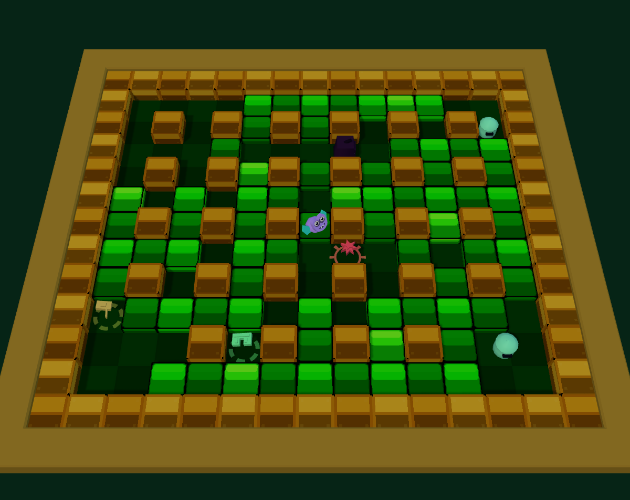
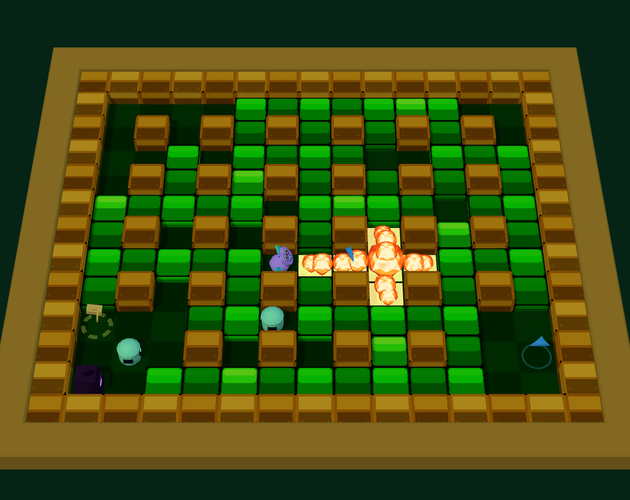
Media: recapture listing art on live v178 (eight-row MENU, live 3D rig)
Cover, still-jungle/ice/crown, still-menu and play.gif recaptured from the
live game: REAL 3D on the STANDARD rig (dist 1503, CAM_FOV 24), Metal
headless shell over CDP, SW unregistered + caches cleared + SW bypass +
hard reload, PORT=0 server stopped by PID. play.gif is a real held-key run
that grabs a naturally buried FLAME (only the fuse staged), 0.58 MB.
media/README provenance rows rewritten per asset, recapture note removed;
PIXEL in the listing and og.png re-cut stay owner-pending.

diff --git a/media/README.md b/media/README.md
@@ -6,67 +6,80 @@
 This page owns the listing art, the itch blurb and the upload zip. Everything
 else about the game lives in the [docs map](../docs/README.md).
 
-> ⚠ **Due for a recapture.** These captures date from 2026-09-06.
-> `still-menu.png` shows the old six-row MENU (DAILY and STATS arrived in
-> shell v143), the REAL 3D shots use the camera from before shell v163, and no
-> asset shows PIXEL (shell v178) yet. They're still real captures of the game
-> as it was then.
-> Adding PIXEL to the listing is a storefront change, so it gets its own pass
-> rather than a drive-by.
+> **PIXEL isn't in the listing set yet.** Every asset here shows REAL 3D or
+> CLASSIC 2D. Adding PIXEL (shell v178) to the cover, the stills, `og.png`,
+> the blurb or the tags is a storefront change, so it waits for the owner.
 
 Everything in this folder is a **real capture** from the live game (loopback
-`node serve.js`, service worker unregistered and caches cleared first, then a
-hard reload) — nothing here is generated key art. Not part of the shipped
-app: `media/` is never staged for GitHub Pages and never added to the PWA
-precache (`src/pwa/shell.js` / `sw.js`).
+`PORT=0 node serve.js`, service worker unregistered and caches cleared first,
+then a hard reload) — nothing here is generated key art. Not part of the
+shipped app: `media/` is never staged for GitHub Pages and never added to the
+PWA precache (`src/pwa/shell.js` / `sw.js`).
 
 "Real capture" means every pixel is the shipped renderer drawing the shipped
-meshes/sprites — it does not mean untouched natural play. RAF is paused while
-the capture tab is backgrounded, so every shot here is driven by hand through
-`window.__GAME__` (the `?debug=1` hook): forcing a render after `step(n)`,
-and, where noted below, staging world state directly (moving the player,
-planting a bomb with a shortened fuse, carving a brick corridor, relocating
-enemies) so the moment on screen is reachable in one script instead of
-minutes of RNG-dependent natural play. Each row below says which of those it
-used.
+meshes/sprites — it does not mean untouched natural play. Each row below says
+which moments were staged through `window.__GAME__` (the `?debug=1` hook) or
+by writing world state directly, so a shot is reachable in one script instead
+of minutes of RNG-dependent play.
 
-Last recaptured **2026-09-06**, after MAKO (the reef-critter mascot, spec
-§2.7) replaced every prior humanoid hero — SIGNAL RUNNER and IONVEST are both
-superseded, and 2D and 3D once again share one character (`PLAYER_HULL` ===
-`PLAYER_SUIT` === `#c39cff`). The 2026-09-05 pass is still the last time
-menu/GUIDE chrome changed (P1–P4 pickups, S1–S3 OPTIONS/pause/chrome-removal,
-R2 folding HOW TO PLAY / ITEMS / ENEMIES under GUIDE); this pass only
-recaptures pixels to swap the hero, and did not touch layout. Every still
-below (plus root `og.png`) shows MAKO, not the earlier gunmetal-hulled hero.
+Last recaptured **2026-10-19** on shell v178 (precache `fusegrid-shell-v178`),
+so the set shows the eight-row MENU and the live REAL 3D rig: the STANDARD
+preset (`dist` 1503) through the `CAM_FOV` 24 lens, both read from
+`camrig.js` in the page at capture time, never orbited or dollied, with the
+near-wall cutaway. MAKO is the hero in every shot.
+
+**How every capture ran.** Each asset got its own session (the three 3D
+stills share one): its own
+`PORT=0 node serve.js` and its own Playwright `chrome-headless-shell` on
+ANGLE Metal (real GPU, not SwiftShader) with a fresh `--user-data-dir`,
+driven over CDP with the `tools/pixel/shot.mjs` helpers. Both were stopped
+by PID afterwards. The page loaded once. Then every
+service worker was unregistered (one was registered each time), every cache
+deleted (`fusegrid-shell-v178`), localStorage cleared,
+`Network.setBypassServiceWorker` turned on so the re-registered `sw.js`
+served nothing, and the page hard-reloaded with `ignoreCache`. The viewport
+is 640×568 at DPR 2, so the stage fits at scale 1: 600×520 CSS, `#gl`
+backing 1200×1040 with `dpr3d` 2. The stills session read `dpr3d` 2 with
+the governor at 2, and a verification run on the same harness (capture
+stylesheet on, rooms 1 and 8) measured `#gl` at 1200×1040 behind a 600×520
+stage, so no 3D shot is upscaled. A MessageChannel rAF shim keeps the
+real game loop running in real time while headless. A capture-only
+stylesheet strips the canvas border, radius and drop shadow (page chrome,
+not game pixels) so shots run edge to edge. 3D shots come from
+`Page.captureScreenshot` clipped to the stage, which composites `#gl` under
+the `#c` HUD overlay exactly as the page shows them. (An in-page
+`drawImage(#gl)` readback is unsafe since v178: render-on-change can skip
+the raster on a still board.) For the 3D sessions `nb.coach.v1` was seeded
+as seen, so the first-room ghost-coach panel doesn't cover the board. No
+coach v2 tip fired in any shot. Every session logged 0 console errors and 0
+exceptions.
 
 ## 🖼 Assets
 
 | File | Use | Provenance |
 |---|---|---|
-| `cover-630x500.png` | itch.io game cover (630×500) | Dedicated live capture (not a crop of `og.png`, whose 1200-wide hero has no 630×500 crop that clears its own text without cutting it): real 3D (`?render=3d&debug=1`), JUNGLE room 1. Staged, not natural play: the player was retreated to a diagonal tile clear of the blast arms and a bomb object pushed directly onto `w.bombs` with an already-expired timer so the detonation is reachable in a single `step()` call instead of the real 2.5s fuse; `p.iFrames` forced to 0 each render so spawn/hit invulnerability never blinks the hero out. Caught the instant the blast opens a BRICK. `#gl` + `#c` composited onto an offscreen canvas at native 2×-DPR resolution (1200×1040), then downscaled-only (0.525×, no upscale) to a 630×546 letterbox and cropped to 630×500 (23px trimmed off top and bottom evenly). No HUD chips (the debug hook's render call omits `{hud:true}`), so there is no text at all — nothing to cut off. Shows MAKO (violet body, teal ear-fins, cream eyes) mid-blast. |
-| `still-jungle.png` | Screenshot — room 1 JUNGLE | Live 3D capture, natural `loadLevel` roster (enemies/items untouched, spawn position): `#gl` (WebGL board) composited with `#c` (HUD overlay, the in-canvas chip row) onto an offscreen canvas filled with the opaque JUNGLE `bg1` first, read synchronously right after a forced render (`p.iFrames` forced to 0). Full-image alpha scan: 0 pixels below alpha 250 (border opaque `rgb(6,36,22)`). Shows MAKO at spawn next to a WALKER and a revealed pickup. |
-| `still-ice.png` | Screenshot — room 2 ICE | Same technique, room 2 (reached via the debug hook's `advance()`), natural roster. Border opaque `rgb(10,32,72)`, 0 pixels below alpha 250. |
-| `still-crown.png` | Screenshot — room 8 CROWN | Same technique, room 8 (the finale look, normally gated behind the first FUSE/GRID CLEAR; the debug hook's `advance()` walked level 2→8 directly for capture, not through a save-scummed unlock). Natural roster — nine enemies is what that room actually spawns. Border opaque `rgb(20,8,8)`, 0 pixels below alpha 250. |
-| `still-menu.png` | Screenshot — MENU screen | Classic 2D canvas (`#c`) on the MENU screen (page loaded without `?render=3d`, so `#gl` stays hidden), captured after two `requestAnimationFrame` waits so the menu's entrance animation settles onto the full six-row list before the shot (`app.toMenu()` resets `idleT`, but this session's RAF loop kept running in the background the whole time, so any longer real-time wait risks the 10s MENU→ATTRACT idle timeout firing mid-capture). Shows the post-R2 six-row MENU (PLAY / LEVEL SELECT / OPTIONS / GUIDE / HIGH SCORES / SOURCE) over the frozen board, with MAKO visible on it. |
-| `play.gif` | Animated preview — a JUNGLE run | Live 3D run (`?render=3d&debug=1`) driven by real held-key intents (`window.__GAME__.setKeys`) through the normal RAF-driven sim loop — not manual `step(n)` teleporting, so the walk cycle is the real animation, not a cued pose. Staged for reliability: a short brick corridor was carved directly in `w.grid` (one BRICK left standing as the target), the level's enemies were relocated (not deleted — emptying `w.enemies` trips the sim's instant-WIN branch) off to one side, and the bomb's fuse was shortened (`w.fuse=0.6`) so the walk/plant/retreat/blast/advance beat fits in ~3.5s. The player retreated a full tile past the blast radius before the fuse ran out — confirmed 3 hearts intact end to end, not a staged near-miss. 42 frames, 12 fps (~3.5s), 630px wide (ffmpeg `palettegen`/`paletteuse` with `dither=bayer`, scaled down from the native 1200×1040 capture, never upscaled). 0.60 MB, under the 3 MB gate. |
+| `cover-630x500.png` | itch.io game cover (630×500) | Dedicated live capture (not a crop of `og.png`, whose 1200-wide hero has no 630×500 crop that clears its own text without cutting it): REAL 3D (`?render=3d&debug=1`), JUNGLE room 1 on that session's own board. Staged, not natural play: 1.6 s after the run started, MAKO was moved to an open tile three tiles west of the bomb spot, behind a BRICK the blast breaks, and a bomb object was pushed straight onto `w.bombs` with a 0.35 s timer and radius 2 (a FLAME 2 bomb; the player was still FLAME 1) on the open tile whose arms hit the most BRICKs (four). `p.iFrames` held at 0 throughout; `nb.coach.v1` seeded as seen. `#c` hidden (`visibility:hidden`), so there is no HUD and no text at all — nothing to cut off. A 26-shot burst caught the blast; frame 5 (0.4–0.47 s after the push: full cross, danger plates lit, fireballs at their peak, four BRICKs breaking) was picked. Downscaled only, 1200×1040 → 630×546 (lanczos, 0.525×), then 23 px cropped off the top and bottom. 0 pixels below alpha 250; border `rgb(6,36,22)`. Shows MAKO beside the blast. |
+| `still-jungle.png` | Screenshot — room 1 JUNGLE | Live REAL 3D capture with the HUD chip row, room 1 straight from `__GAME__.begin()`, natural roster (two WALKERs and a STATIONARY, eight pickups placed by the room's own generator). Shot 1.6 s into real play, so foes have wandered naturally and MAKO is near spawn; `p.iFrames` set to 0 one frame before the shot so the spawn blink can't hide the hero; `nb.coach.v1` seeded as seen. 1200×1040, 0 pixels below alpha 250, border `rgb(6,36,22)`. |
+| `still-ice.png` | Screenshot — room 2 ICE | Same session and technique, room 2 entered with `loadLevel(G,2,true)` (carry kept, state set to PLAY) and shot 1.6 s later, `p.iFrames` 0, `nb.coach.v1` seeded as seen. Natural roster (four foes). Shows the near-wall cutaway: ICE's tall border is cut down only on the row nearest the camera. 0 pixels below alpha 250, border `rgb(10,32,72)`. |
+| `still-crown.png` | Screenshot — room 8 CROWN | Same session and technique, room 8 entered with `loadLevel(G,8,true)` straight from room 2 (the finale look is normally gated behind the first FUSE/GRID CLEAR; this jumps the gate for capture, not through a save-scummed unlock). Natural roster — nine foes is what that room spawns. `p.iFrames` 0, `nb.coach.v1` seeded as seen. 0 pixels below alpha 250, border `rgb(20,8,8)`. |
+| `still-menu.png` | Screenshot — MENU screen | CLASSIC 2D (`?debug=1`, fresh settings, so CLASSIC is the look), reached the way a player does: one Enter on the title, then the whole opening show ran until its bomb's boom landed MENU at PLAY (4.5 s after the press). Shot 1.2 s later (`idleT` 1.3 s, far from the 10 s ATTRACT timeout) as `#c.toDataURL()` at the canvas's native 600×520 backing, so nothing is resampled. Shows all eight rows (PLAY / LEVEL SELECT / DAILY / OPTIONS / GUIDE / HIGH SCORES / STATS / SOURCE); DAILY reads NEW because the profile is fresh. The backdrop is the kept show world, not a room board, with MAKO at its top-left. |
+| `play.gif` | Animated preview — a JUNGLE run | Live REAL 3D run (`?render=3d&debug=1`) driven by real held-key intents (`window.__GAME__.setKeys`) through the normal rAF-driven loop, so the walk is the real animation. The route was planned by a BFS over that session's live grid: walk from spawn to the open tile beside a BRICK, plant, retreat straight west along the same row to two tiles from the bomb (in line with the blast, one tile past the end of the FLAME 1 arm), let the blast open the BRICK, walk back and grab the FLAME the room's own generator had buried there. The pickup fires the floating `FLAME 2` label and the HUD FLAME chip pulse. The only world staging is the fuse (`w.fuse=1.2` instead of CORE's 2.5 s) so the beat fits in 6 s; `nb.coach.v1` was seeded as seen. Nothing else was touched: no grid carved, no foe moved (none came within four tiles of the route), no pickup placed. 3 hearts intact end to end. Recorded as a burst of 83 stage-clipped `Page.captureScreenshot` frames at 1200×1040 over 5.9 s with wall-clock timestamps, retimed through an ffmpeg concat list to 12 fps (72 frames, 6.0 s), scaled down to 630×546 (lanczos, never upscaled), `palettegen=stats_mode=diff` / `paletteuse=dither=bayer:bayer_scale=4`. 0.58 MB, under the 3 MB gate. |
 
-`og.png` (project root, 1200×630) was recaptured the same session: a fresh
-JUNGLE hero (MAKO, mid-blast, retreated off the blast tiles, `p.iFrames`
-forced 0) was rendered with `scene.background=null` and alpha-scrubbed
-(measured this session: a clean 0/255 bimodal split plus a thin AA fringe —
-no uniform haze this time, unlike the 2026-09-05 P5 note, so the scrub
-threshold was set from the actual histogram, not assumed). It replaces only
-the board pixels of the locked card: the wordmark, the REAL 3D ⇄ CLASSIC 2D
-row, the CORE/PLUS/MAX chips and the PLAY IN THE BROWSER pill are the
-original, unmodified pixels (restored per-pixel from the previous `og.png`
-inside their row bands after a full repaint, so no trace of the old
-humanoid-era board bleeds through the gaps around the text). Card stays
+`og.png` (project root, 1200×630) was **not** recaptured in this pass, which
+was deliberate. It is still the 2026-09-06 card, so its board shows the REAL
+3D camera from before shell v163. The share card is storefront art, and
+re-cutting it (or putting PIXEL on it) is the owner's call. The card was
+built like this: a JUNGLE hero (MAKO, mid-blast, retreated off the blast
+tiles, `p.iFrames` forced 0) was rendered with `scene.background=null` and
+alpha-scrubbed, with the threshold set from the measured histogram (a clean
+0/255 split plus a thin AA fringe). It replaces only the board pixels of the
+locked card: the wordmark, the REAL 3D ⇄ CLASSIC 2D row, the CORE/PLUS/MAX
+chips and the PLAY IN THE BROWSER pill are the original, unmodified pixels,
+restored per-pixel inside their row bands after a full repaint. The card is
 fully opaque (0 pixels below alpha 255). Disclosed: the dark background
 outside the text glyphs (card chrome, not game pixels) is a calibrated
-radial-gradient approximation of the previous card's background rather than a
-per-pixel restore, measured within ~9 RGB units of the original at the
-corner — the text glyphs themselves are byte-identical restorations and the
-board/hero are real renders.
+radial-gradient approximation of the earlier card's background, measured
+within ~9 RGB units of it at the corner.
 
 ## 📦 Rebuilding the zip for itch / Newgrounds / Game Jolt
 

diff --git a/MEMORY.md b/MEMORY.md
@@ -16,6 +16,9 @@ append an entry when it makes a non-trivial change.
 
 ## Log
 
+## 2026-10-19 — media/ listing art recaptured on v178 (uncommitted, awaiting owner)
+- Recaptured cover, still-jungle/ice/crown, still-menu (eight-row MENU) and play.gif from live v178: REAL 3D on the live rig (STANDARD 1503, FOV 24), Metal headless-shell over CDP, SW unregistered + caches cleared + SW bypass + hard reload, PORT=0 server stopped by PID. play.gif is a real held-key run that grabs a naturally buried FLAME (only the fuse staged), 0.58 MB. media/README provenance rows rewritten and the recapture note removed. Open, owner call: PIXEL in the listing set, and og.png (still the 2026-09-06 card on the pre-v163 rig).
+
 ## 2026-10-19 — Docs pass: OSS set + one-owner-per-fact map, arcade voice
 - Rewrote README (player front door, lede now play-in-browser + 3D⇄2D + Heat, dev detail moved out), voice pass on architecture/CHANGELOG (+ Unreleased)/media (recapture note); added CONTRIBUTING (flags table now lives here), CODE_OF_CONDUCT, SECURITY, .github issue/PR templates, docs/README.md (who-owns-what map, doc house style, indexed design history with ⚠ superseded notes). docs/superpowers bodies untouched. Open: media/ captures stale (6-row MENU, pre-v163 camera, no PIXEL).
 
